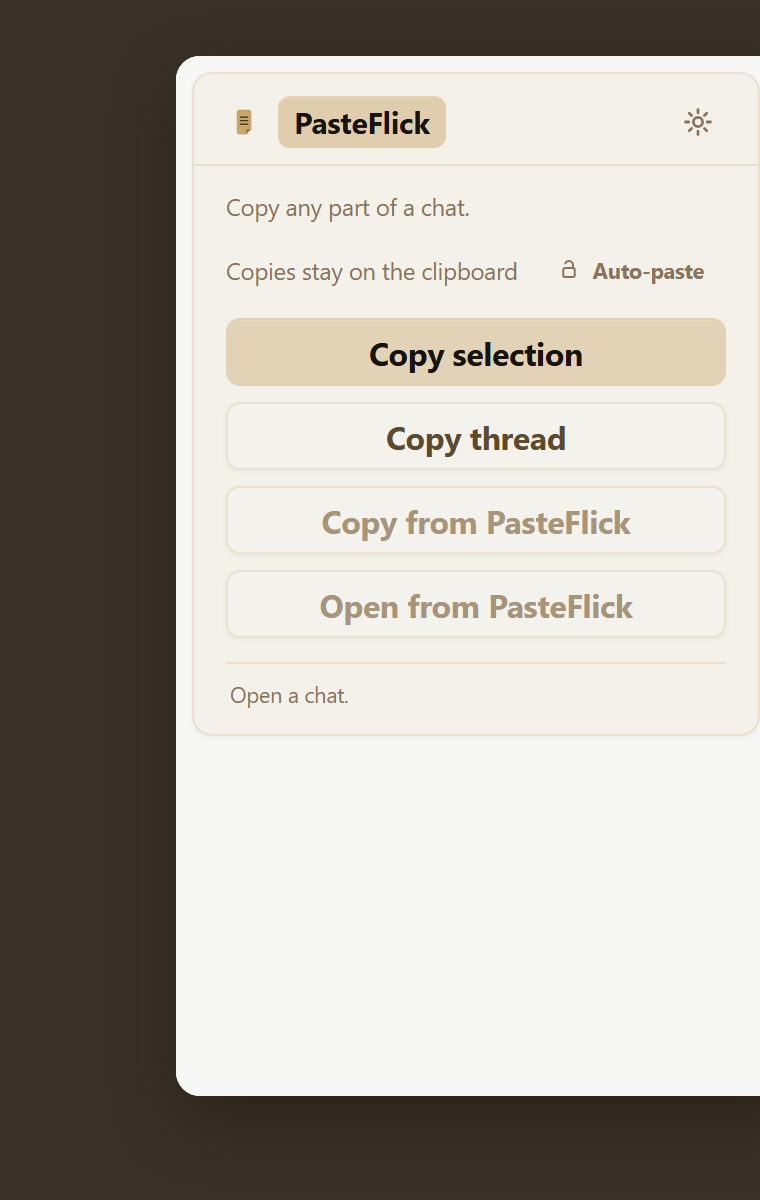
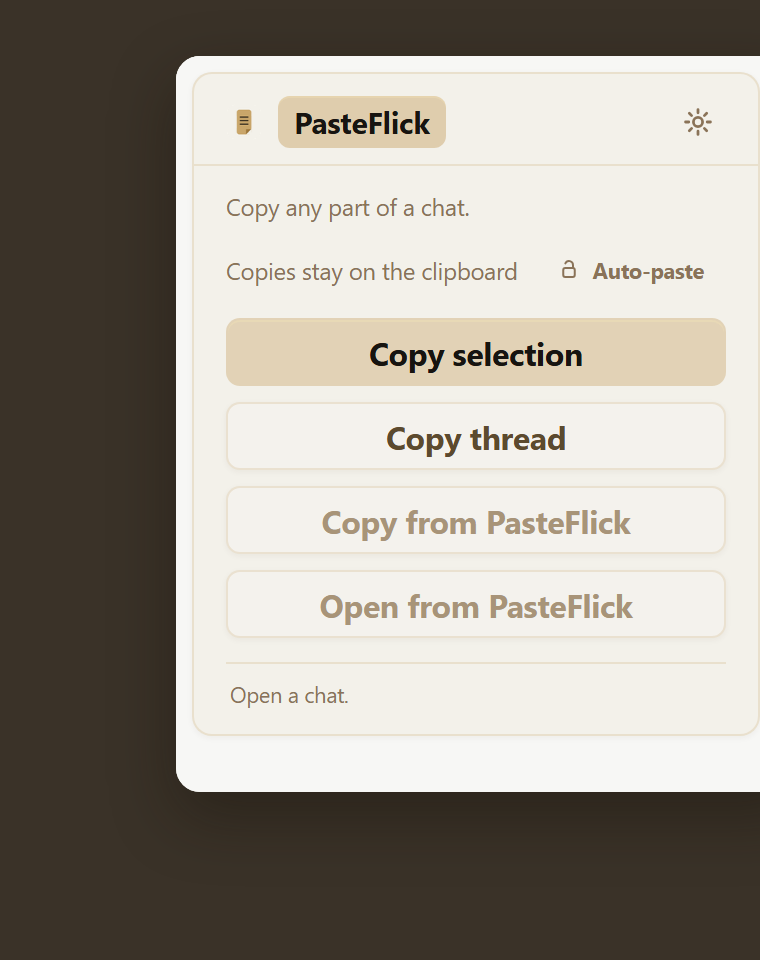
Sit the popup and settings together in the wood frame so that pair reads as one centered shot.

diff --git a/readme/capture_shots.py b/readme/capture_shots.py
@@ -33,11 +33,49 @@ class Handler(SimpleHTTPRequestHandler):
             self.end_headers()
             self.wfile.write(data)
             return
+        if name == "shot-pair.html":
+            html = """<!doctype html>
+<html><head><meta charset="utf-8"><style>
+html,body{margin:0;height:100%;background:#3a3228;}
+.stage{
+  min-height:100%;
+  box-sizing:border-box;
+  display:flex;
+  align-items:center;
+  justify-content:center;
+  gap:32px;
+  padding:40px 36px;
+}
+iframe{
+  border:0;
+  width:316px;
+  border-radius:12px;
+  overflow:hidden;
+  box-shadow:0 12px 32px rgba(20,14,8,.4);
+  background:#f7f7f5;
+}
+.home{height:368px;}
+.settings{height:648px;}
+</style></head>
+<body>
+  <div class="stage">
+    <iframe class="home" src="/popup.html" title="Popup"></iframe>
+    <iframe class="settings" src="/popup-settings.html" title="Settings"></iframe>
+  </div>
+</body></html>"""
+            data = html.encode("utf-8")
+            self.send_response(200)
+            self.send_header("Content-Type", "text/html; charset=utf-8")
+            self.send_header("Cache-Control", "no-store")
+            self.send_header("Content-Length", str(len(data)))
+            self.end_headers()
+            self.wfile.write(data)
+            return
         if name in {"shot-popup.html", "shot-settings.html", "shot-chat.html"}:
             if name == "shot-popup.html":
-                inner, h = "/popup.html", 520
+                inner, h = "/popup.html", 368
             elif name == "shot-settings.html":
-                inner, h = "/popup-settings.html", 740
+                inner, h = "/popup-settings.html", 648
             else:
                 inner, h = "/mock-chatgpt.html?shot=1", 720
             w = 316 if "chat" not in name else 920
@@ -140,8 +178,9 @@ def main() -> None:
     time.sleep(0.2)
     base = f"http://127.0.0.1:{port}"
     try:
-        shot(f"{base}/shot-popup.html", OUT / "popup.png", 380, 600, "FF3A3228")
-        shot(f"{base}/shot-settings.html", OUT / "settings.png", 380, 820, "FF3A3228")
+        shot(f"{base}/shot-pair.html", OUT / "windows.png", 760, 740, "FF3A3228")
+        shot(f"{base}/shot-popup.html", OUT / "popup.png", 380, 480, "FF3A3228")
+        shot(f"{base}/shot-settings.html", OUT / "settings.png", 380, 760, "FF3A3228")
         shot(f"{base}/shot-chat.html", OUT / "chat.png", 1000, 800, "FF1A1A1A")
     finally:
         httpd.shutdown()

diff --git a/README.md b/README.md
@@ -11,9 +11,7 @@
 </p>
 
 <p align="center">
-  <img src="readme/shots/popup.png" width="300" alt="PasteFlick toolbar popup">
-  &nbsp;&nbsp;
-  <img src="readme/shots/settings.png" width="300" alt="PasteFlick settings and Tip $5">
+  <img src="readme/shots/windows.png" width="680" alt="PasteFlick popup and settings">
 </p>
 
 <p align="center">
